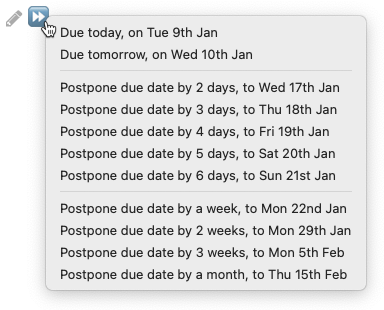
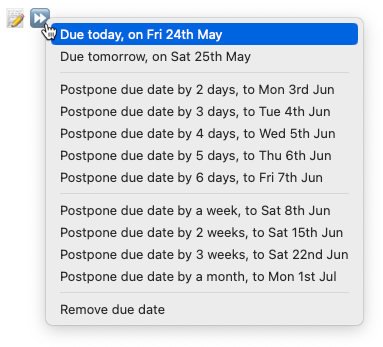
docs: Update Postponing docs for addition of 'Remove' button

Changed region(s): [[0.1436, 0.2323, 0.9191, 0.8419], [0.0, 0.0, 0.9765, 0.929], [0.1436, 0.871, 0.9191, 0.929]]

diff --git a/docs/Editing/Postponing.md b/docs/Editing/Postponing.md
@@ -11,14 +11,17 @@ publish: true
 > [!Tip]
 > Do you ever find that your Task list is full of overdue tasks that you scheduled with the best of intentions?
 >
-> And now you want to postpone many of them, so you can focus on the immediate priorities?
+> - And now you want to postpone many of them, so you can focus on the immediate priorities?
+> - Or perhaps you want to remove the date instead?
 >
 > Then the ⏩ Postpone button is for you!
 
 The ⏩ button in Tasks Search results allows you to quickly postpone (or "snooze") a task until tomorrow or later.
 
 > [!released]
-> Introduced in Tasks 5.3.0.
+>
+> - Postpone was introduced in Tasks 5.3.0.
+> - The ability to remove the existing date was introduced in Tasks X.Y.Z.
 
 ### Click and Context Menu
 
@@ -34,7 +37,8 @@ The ⏩ button provides two choices:
 
 2. **Right-click** or **press-and-hold** the button to select from a context menu with:
     - future dates in the next 6 days
-    - more future dates, further ahead:
+    - more future dates, further ahead
+    - an option to remove the date instead:
     ![Context menu on the Postpone button shows options for dates before or on today](../images/postpone-overdue-task-context-menu.png)
     <span class="caption">**Context menu** on the Postpone button shows options for dates **before or on today**</span>
     ![Context menu on the Postpone button shows options for future dates.](../images/postpone-future-task-context-menu.png)
